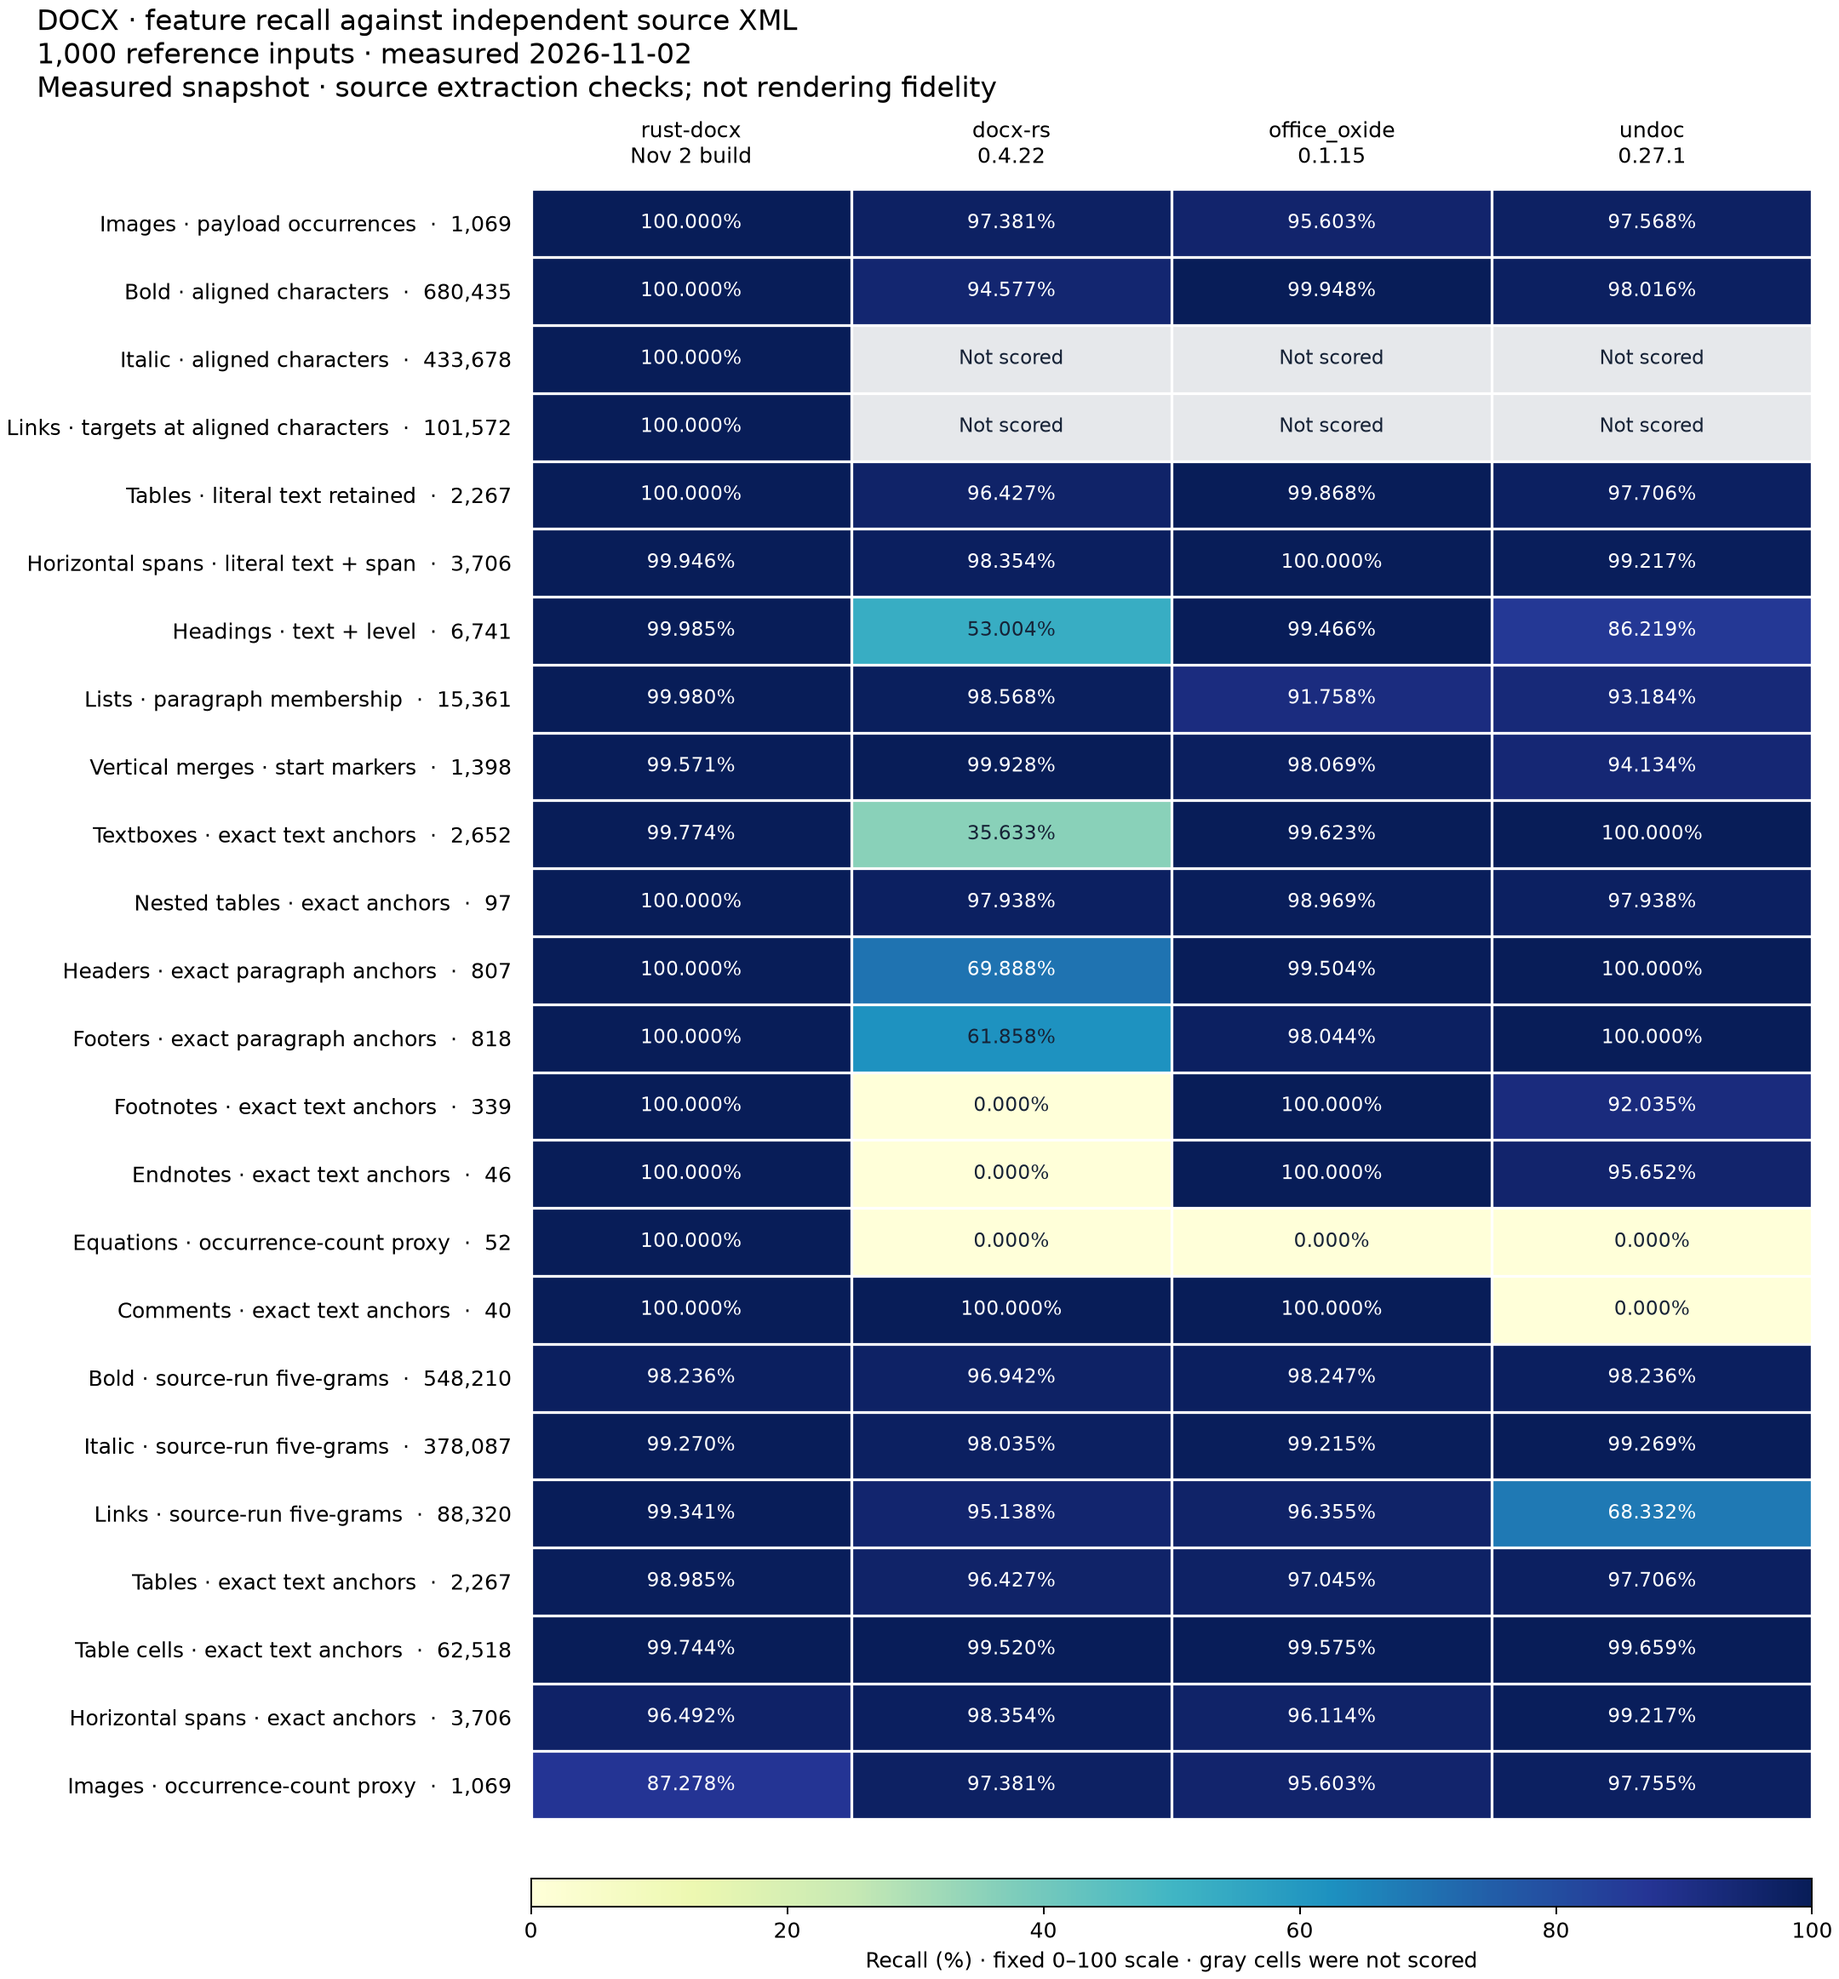
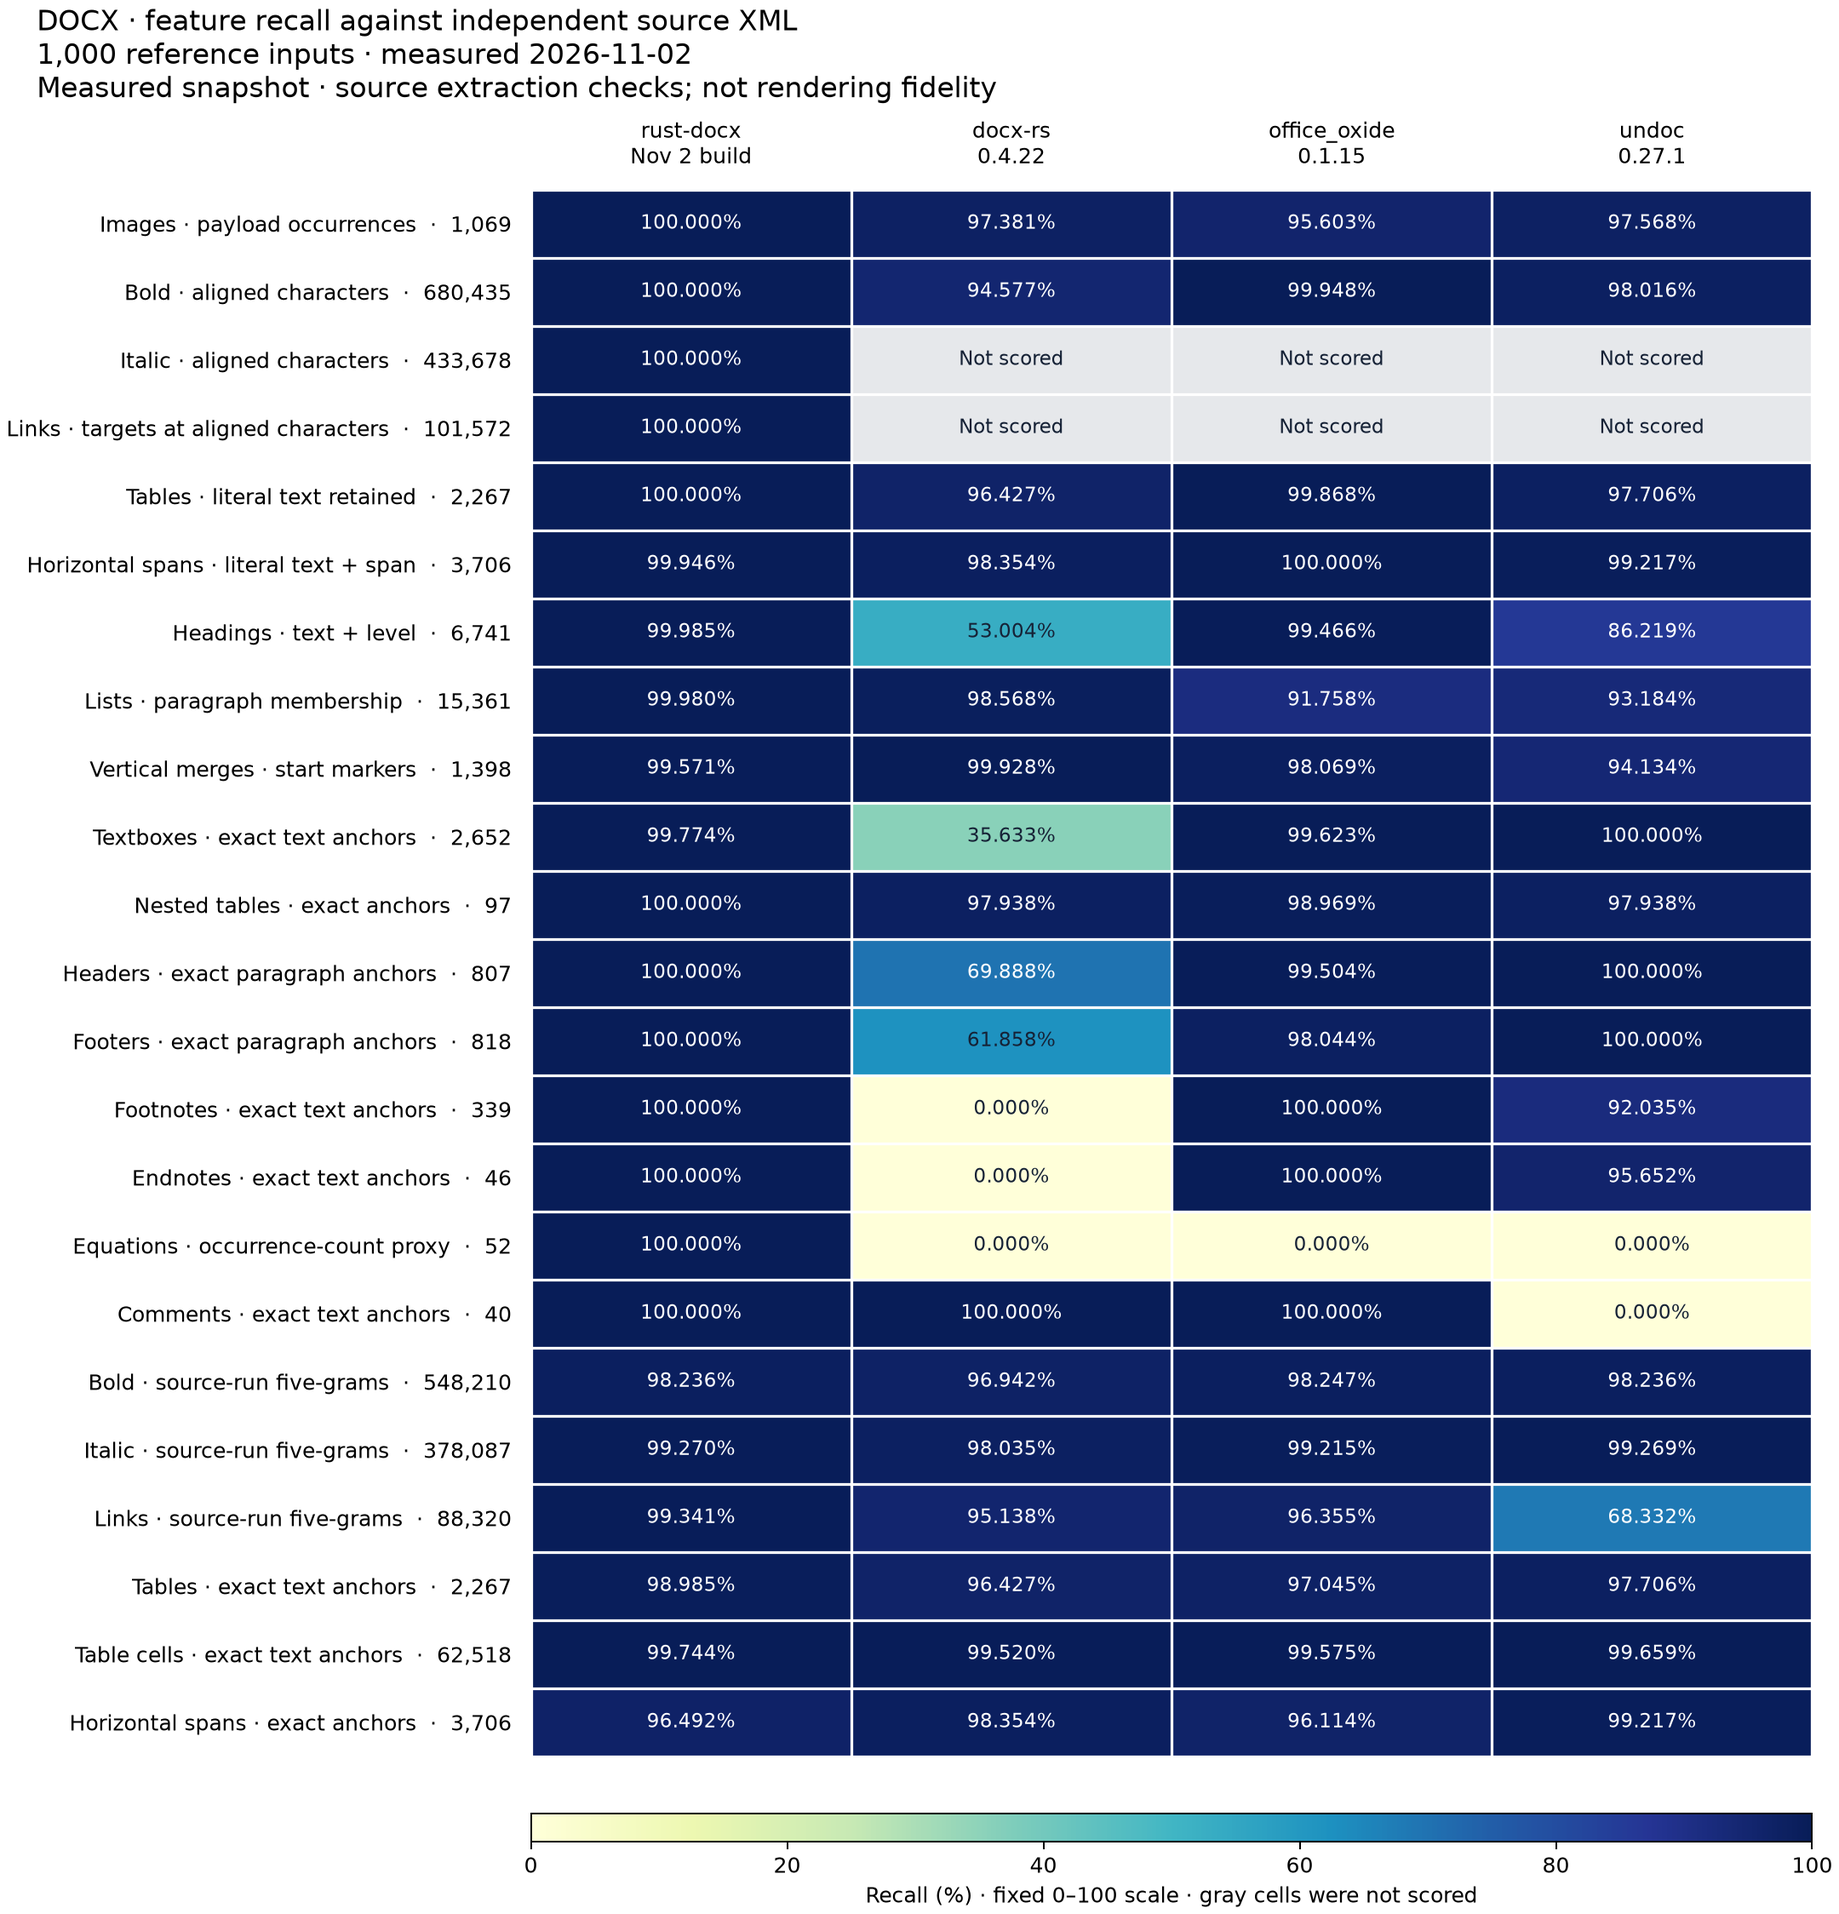
Drop the superseded DOCX image node-count proxy from the heatmap
Payload-matched image occurrences replaced the node-count proxy, which
undercounts placements rendered inside composite SVGs. The proxy stays in the
original scoring details in docs/docx-benchmarks.md.

Changed region(s): [[0.0, 0.0, 0.9926, 0.9964], [0.0, 0.218, 0.031, 0.2491]]

diff --git a/scripts/parser-benchmark/feature_heatmaps.py b/scripts/parser-benchmark/feature_heatmaps.py
@@ -11,6 +11,7 @@ import matplotlib.pyplot as plt
 import numpy as np
 
 ROOT = Path(__file__).resolve().parents[2]
+# The superseded image node-count proxy is omitted; payload-matched occurrences replace it.
 DOCX = [
     ('image_payload_occurrences', 'Images · payload occurrences'),
     ('explicit_bold_characters', 'Bold · aligned characters'),
@@ -35,7 +36,6 @@ DOCX = [
     ('tables', 'Tables · exact text anchors'),
     ('table_cells', 'Table cells · exact text anchors'),
     ('horizontal_merges', 'Horizontal spans · exact anchors'),
-    ('images', 'Images · occurrence-count proxy'),
 ]
 PPTX = [
     ('body_text','Slide text · five-grams'),('ordered_text','Slide text · ordered characters'),

diff --git a/README.md b/README.md
@@ -133,9 +133,9 @@ November 2, 2026: **1,000 documents**, with latency measured on the **999 inputs
 
 Text and feature scores use independent source-XML references; they measure extraction, not rendering fidelity. A separate 25-document Word reference sample is included in the full report.
 
-[![DOCX feature recall heatmap: rust-docx, docx-rs, office_oxide and undoc across 24 source-XML checks](docs/readme-assets/docx-optimized-20261102-feature-recall.png)](docs/readme-assets/docx-optimized-20261102-feature-recall.png)
+[![DOCX feature recall heatmap: rust-docx, docx-rs, office_oxide and undoc across 23 source-XML checks](docs/readme-assets/docx-optimized-20261102-feature-recall.png)](docs/readme-assets/docx-optimized-20261102-feature-recall.png)
 
-Each cell is recall against the independent source-XML reference on all 1,000 inputs, on a fixed 0–100% scale. Gray cells are checks a parser's output model cannot express. rust-docx (November 2 build) leads or ties on 18 of 24 checks. Its largest gaps are the image occurrence-count proxy (87.278%; payload-matched images reach 100.000%) and exact horizontal-span anchors (96.492%).
+Each cell is recall against the independent source-XML reference on all 1,000 inputs, on a fixed 0–100% scale. Gray cells are checks a parser's output model cannot express. rust-docx (November 2 build) leads or ties on 18 of 23 checks and matches all 1,069 source image occurrences to retained payload bytes. Its largest gap is exact horizontal-span anchors (96.492%); literal span text reaches 99.946%. The superseded image node-count proxy remains in the [original scoring details](docs/docx-benchmarks.md).
 
 [Results, feature recall and methodology](docs/docx-benchmarks.md) · [Benchmark tools](scripts/parser-benchmark/README.md) · [Source-reference data](crates/rust-docx/benchmarks/optimized-20261102/accuracy.json) · [Word-reference data](crates/rust-docx/benchmarks/word-reference-20261103/summary.json)
 
